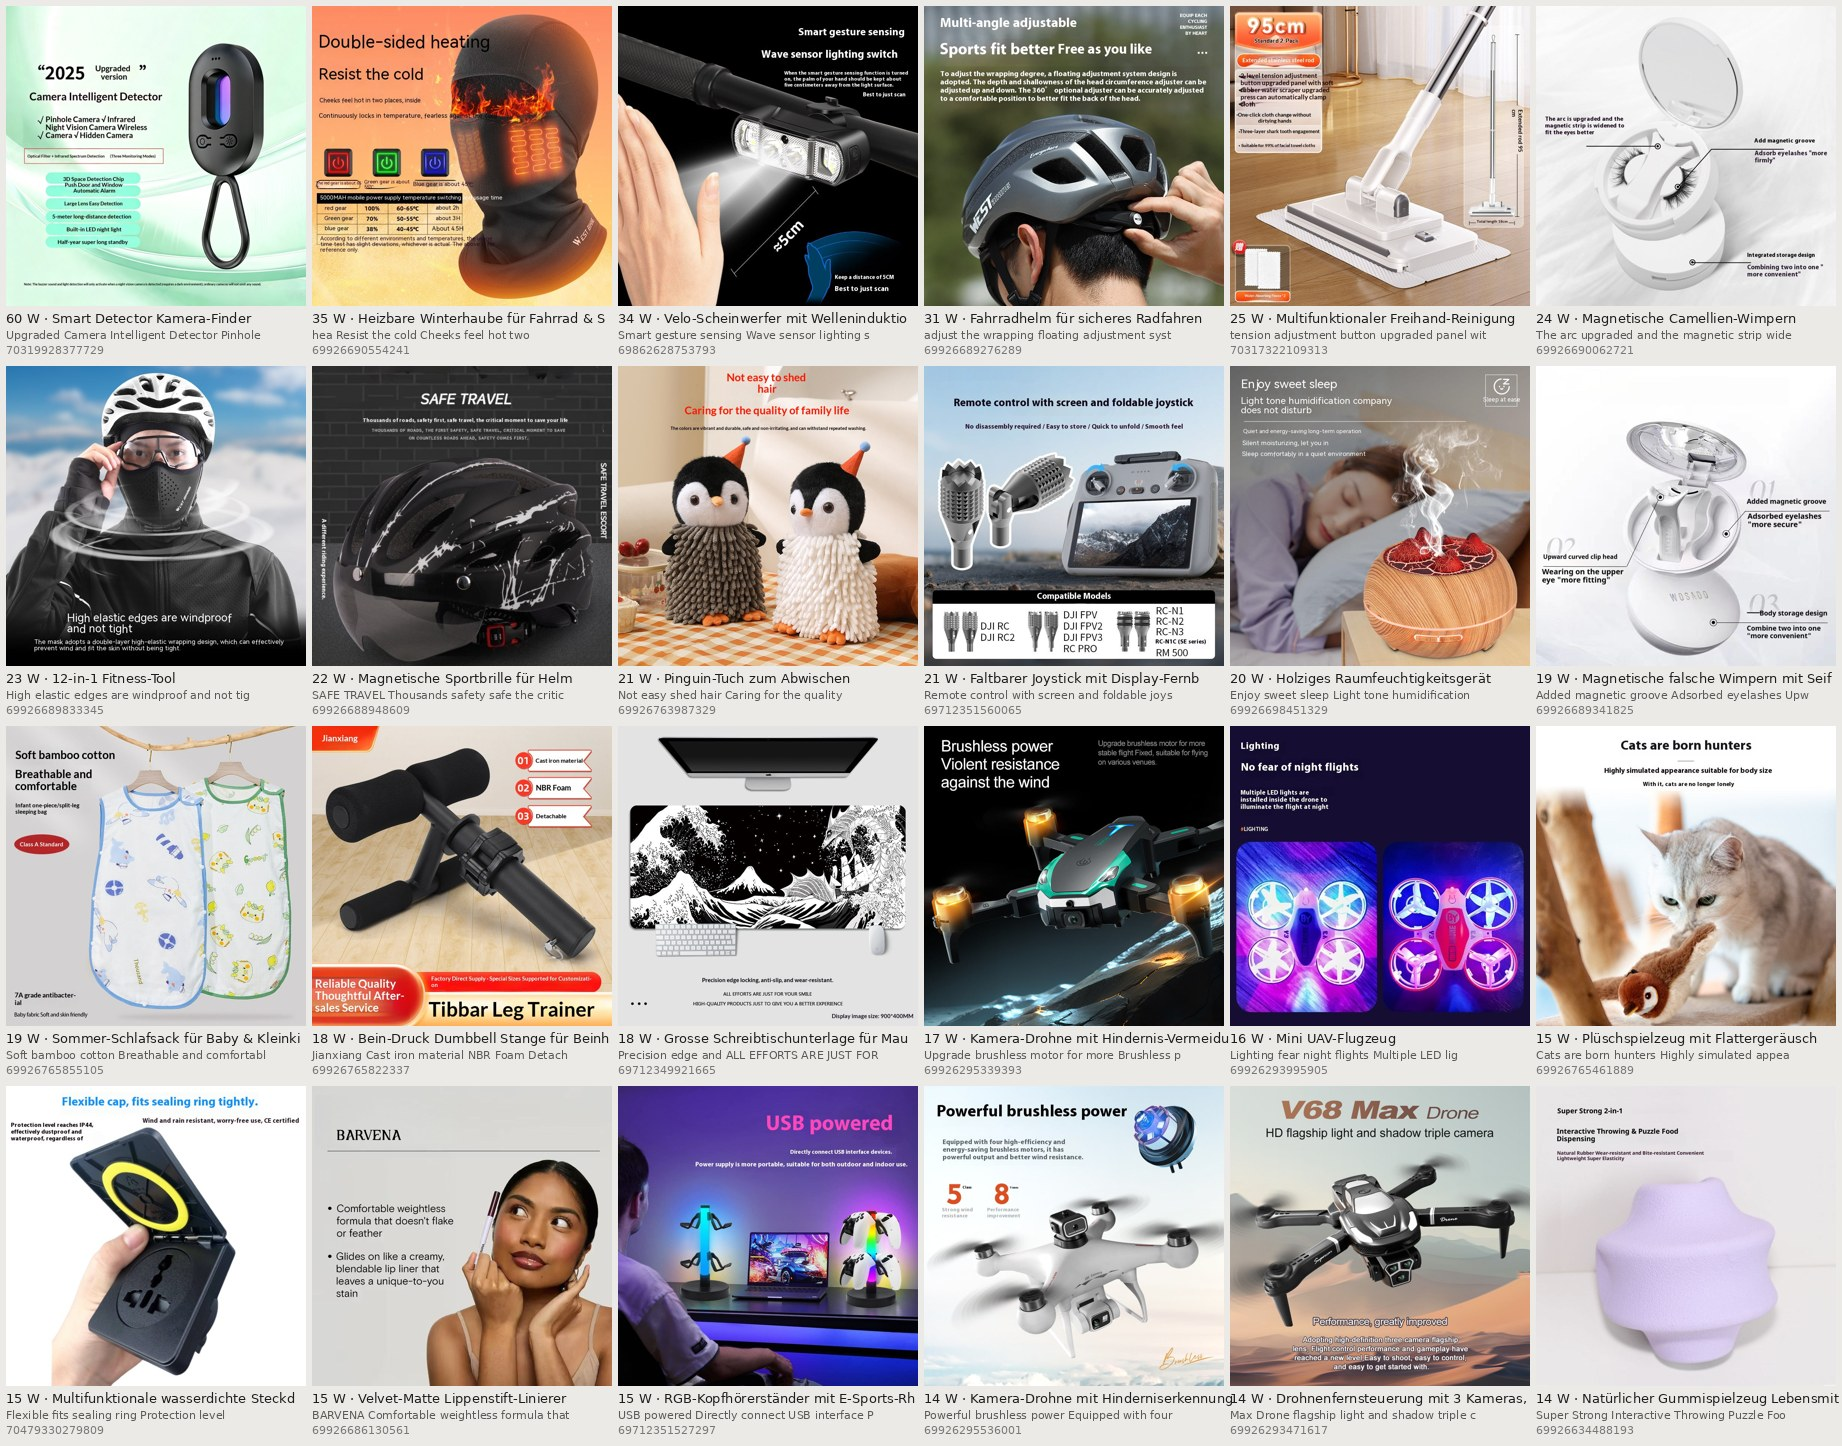
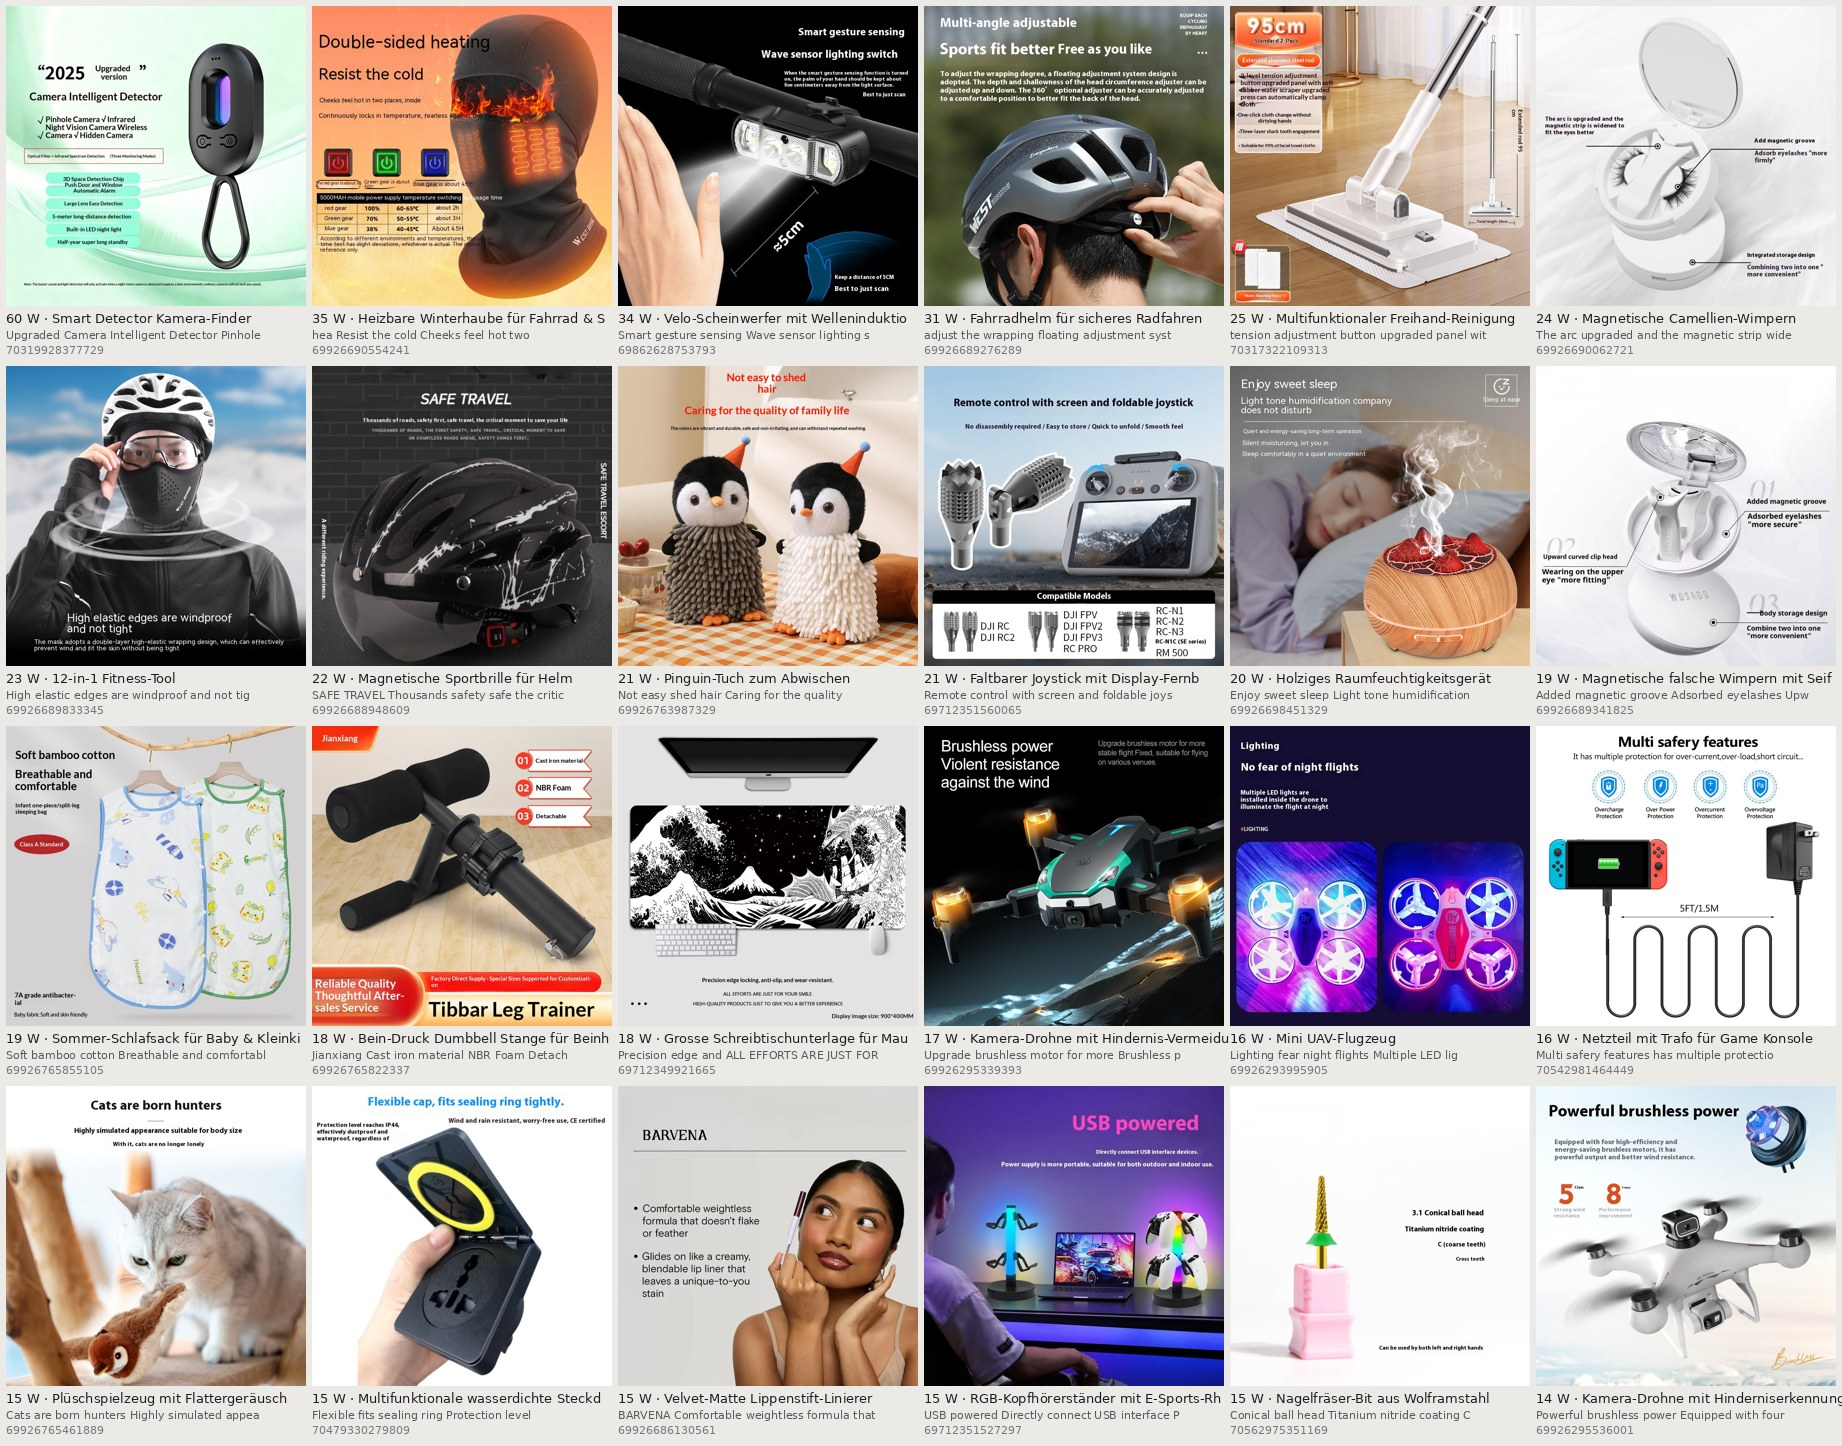
Ledger-Zwischenstand [skip ci]
Claude-Session: https://claude.ai/code/session_01MCYpvsTg9cwVa1SwQZ39f3

Changed region(s): [[0.0, 0.4979, 1.0, 0.9959]]

diff --git a/dropship/BILD-WERBETEXT.md b/dropship/BILD-WERBETEXT.md
@@ -1,9 +1,9 @@
-# Bild-Werbetext in Nicht-Hauptbildern — Stand 2026-09-24T00:20:08Z
+# Bild-Werbetext in Nicht-Hauptbildern — Stand 2026-09-24T00:22:43Z
 
 Quelle: «+N»-Produkte aus `dropship/_cj_bild_backfill.txt` (704 Produkte). Geprüft werden nur Bilder ab Position 2, nie das Hauptbild. Messgerät `bildtext_pruefen.woerter()`, Schwelle ≥ 4 sichere Wörter (Tesseract, Konfidenz ≥ 60, mind. 3 Buchstaben).
 
-- Medien geprüft: **2114** in 581 Produkten
-- Treffer (≥ 4 Wörter): **88** in 83 Produkten
+- Medien geprüft: **2202** in 605 Produkten
+- Treffer (≥ 4 Wörter): **92** in 87 Produkten
 - nicht lesbar (−1, wird beim nächsten Lauf erneut versucht): 0
 - entfernt (`_bild_werbetext_entfernt.txt`): **1**
 
@@ -28,10 +28,12 @@ Quelle: «+N»-Produkte aus `dropship/_cj_bild_backfill.txt` (704 Produkte). Gep
 | Grosse Schreibtischunterlage für Maus und Tastat `15433463103873` | [69712349921665](https://cdn.shopify.com/s/files/1/0943/6856/3585/files/bb422eff-d04a-4d90-bb2a-f6dcad20c47f_trans.jpg) | 18 | Precision edge and ALL EFFORTS ARE JUST FOR | offen |
 | Kamera-Drohne mit Hindernis-Vermeidung `15453744562561` | [69926295339393](https://cdn.shopify.com/s/files/1/0943/6856/3585/files/20c126ef-1fd7-47ba-87da-dfe5ce978467.jpg) | 17 | Upgrade brushless motor for more Brushless power stable | offen |
 | Mini UAV-Flugzeug `15453743907201` | [69926293995905](https://cdn.shopify.com/s/files/1/0943/6856/3585/files/7cbd0b1a-7a56-4fc8-b874-60c3d63e3060_fine.jpg) | 16 | Lighting fear night flights Multiple LED lights are | offen |
+| Netzteil mit Trafo für Game Konsole `15500438602113` | [70542981464449](https://cdn.shopify.com/s/files/1/0943/6856/3585/files/dc58d45a-b0d9-4b36-816f-75de1f08f70b.jpg) | 16 | Multi safery features has multiple protection for Overcharge | offen |
 | Plüschspielzeug mit Flattergeräusch `15453792174465` | [69926765461889](https://cdn.shopify.com/s/files/1/0943/6856/3585/files/4b69f4b4-890b-47aa-89a2-7f70b5e1dd60_trans.jpg) | 15 | Cats are born hunters Highly simulated appearance suitable | offen |
 | Multifunktionale wasserdichte Steckdose für Wohn `15493873860993` | [70479330279809](https://cdn.shopify.com/s/files/1/0943/6856/3585/files/6dd5f853-90c4-4899-9887-bc425efbe683_trans.jpg) | 15 | Flexible fits sealing ring Protection level reaches Wind | offen |
 | Velvet-Matte Lippenstift-Linierer `15453767074177` | [69926686130561](https://cdn.shopify.com/s/files/1/0943/6856/3585/files/c08c8d05-8ba3-41b6-a369-2e2983da3f17.jpg) | 15 | BARVENA Comfortable weightless formula that flake feather Glides | offen |
 | RGB-Kopfhörerständer mit E-Sports-Rhythmusbeleuc `15433464217985` | [69712351527297](https://cdn.shopify.com/s/files/1/0943/6856/3585/files/3b9775a1-fe5c-4ca0-974f-79ccfb2d8ecd_trans.jpg) | 15 | USB powered Directly connect USB interface Power supply | offen |
+| Nagelfräser-Bit aus Wolframstahl `15502471266689` | [70562975351169](https://cdn.shopify.com/s/files/1/0943/6856/3585/files/398099cc-fa5b-442d-8379-7dae455303e5_fine.jpg) | 15 | Conical ball head Titanium nitride coating Cross teeth | offen |
 | Kamera-Drohne mit Hinderniserkennung `15453744628097` | [69926295536001](https://cdn.shopify.com/s/files/1/0943/6856/3585/files/bc914a48-36f7-4072-b53a-203bf305c567.jpg) | 14 | Powerful brushless power Equipped with four and brushless | offen |
 | Drohnenfernsteuerung mit 3 Kameras, langer Akku `15453743743361` | [69926293471617](https://cdn.shopify.com/s/files/1/0943/6856/3585/files/a23f731e-f5bd-4c47-b047-72f2cbe17a1c.jpg) | 14 | Max Drone flagship light and shadow triple camera | offen |
 | Natürlicher Gummispielzeug Lebensmittel-Verteile `15453763502465` | [69926634488193](https://cdn.shopify.com/s/files/1/0943/6856/3585/files/c34aa6a5-2ee1-492c-8bd0-64631702cb5a_trans.jpg) | 14 | Super Strong Interactive Throwing Puzzle Food Dispensing jistant | offen |
@@ -60,6 +62,7 @@ Quelle: «+N»-Produkte aus `dropship/_cj_bild_backfill.txt` (704 Produkte). Gep
 | Elegantes Sommerkleid aus Baumwolle `15453768483201` | [69926688260481](https://cdn.shopify.com/s/files/1/0943/6856/3585/files/a178311c-f643-4dd1-a3cc-9ff55d1b9b63_trans.jpg) | 8 | Where deep bamboo woods and insects chirp Wind | offen |
 | Apricot-Peach Rouge `15453767172481` | [69926686359937](https://cdn.shopify.com/s/files/1/0943/6856/3585/files/60cb8b04-2a3f-4c3b-9e70-eb3272169993_water_trans.jpg) | 8 | Floating Dot Dot Blush Mud Fidoo Floating Pond | offen |
 | Entspannte Sporthose für Herren `15453771858305` | [69926697861505](https://cdn.shopify.com/s/files/1/0943/6856/3585/files/93eceeb9-6b24-4106-a88f-eb8ae0ceadbf_trans.jpg) | 8 | WATER REPELLENT VENTILATE Breathability WEAR RESISTANT fear Resistance | offen |
+| Elektrisches Lichttherapiegerät zur Hautverjüngu `15501006209409` | [70551637721473](https://cdn.shopify.com/s/files/1/0943/6856/3585/files/24dd1c96-9e2a-41ff-962f-d2eae9739428_trans.jpg) | 8 | Beauty and hairdressing set Source Factory Fully qualified | offen |
 | Walnut-Tamper-Aufbewahrung `15453777428865` | [69926712443265](https://cdn.shopify.com/s/files/1/0943/6856/3585/files/bf44810f-69e4-4f5b-89d2-a563f833df37_trans.jpg) | 7 | Coffee solid wood tamping base Suitable for | offen |
 | Baby Seitenliege- und Anti-Roll-Kissen `15453778510209` | [69926716539265](https://cdn.shopify.com/s/files/1/0943/6856/3585/files/638aea21-8dbc-4e77-922a-d77677b291d2_trans.jpg) | 7 | Full and helps soothe sleep and prevents | offen |
 | Gehhilfe für Senioren `15453730439553` | [69926176588161](https://cdn.shopify.com/s/files/1/0943/6856/3585/files/5c6a5c54-439a-4d29-8148-fdf8f6c2aec6_trans.jpg) | 7 | Crotch thickened chafing pad Wearable waist waist | offen |
@@ -73,6 +76,7 @@ Quelle: «+N»-Produkte aus `dropship/_cj_bild_backfill.txt` (704 Produkte). Gep
 | Faltbarer Quadrocopter mit Touch-Steuerung `15453743317377` | [69926292586881](https://cdn.shopify.com/s/files/1/0943/6856/3585/files/452b1a45-07be-42ee-a86d-1f502df24b52_trans.jpg) | 6 | perception and obstacle avoidance forward Pathfinder | offen |
 | Yoga-Matte für Studios und Workouts `15453762650497` | [69926633439617](https://cdn.shopify.com/s/files/1/0943/6856/3585/files/27505a5f-50fb-4818-b7f1-00d8510342f3_trans.jpg) | 6 | pain tion exe cise longer restricted | offen |
 | Integrierte Fahrradhelm-Brille `15453769695617` | [69926689997185](https://cdn.shopify.com/s/files/1/0943/6856/3585/files/57a09141-2e5f-46ec-a9ff-9fae95b110ae.jpg) | 6 | red silver One size fits all | offen |
+| Nixie-Röhrenuhr mit Wecker aus Walnussholz `15501005291905` | [70551630807425](https://cdn.shopify.com/s/files/1/0943/6856/3585/files/640bcf9f-7da6-4b62-8469-9399beef9d90.jpg) | 6 | GERALDINI MUUTO ESIGN THE SOLACE SOAKING | offen |
 | 15453774086529 `15453774086529` | [69926701629825](https://cdn.shopify.com/s/files/1/0943/6856/3585/files/6d4977fb-27ff-4537-928a-345fe4d01923.jpg) | 5 | FOR YOU PROVIDE COMFORT FRAGRANCE | ENTFERNT |
 | Arm-Trainer für Zuhause `15453762584961` | [69926633308545](https://cdn.shopify.com/s/files/1/0943/6856/3585/files/31de1ba0-7de4-4960-8285-f97d43eb8315_trans.jpg) | 5 | Strengthen your body Build muscles | offen |
 | Intelligenter Wasserspender für Katzen `15453765009793` | [69926640255361](https://cdn.shopify.com/s/files/1/0943/6856/3585/files/7886b754-4fb5-4cd4-867d-0c466afc290a_trans.jpg) | 5 | set satisfies all Container Extrajlarge | offen |

diff --git a/dropship/DU-FORM-VERDACHT.md b/dropship/DU-FORM-VERDACHT.md
@@ -147,3 +147,8 @@
 | `verstellbare-kurzhantel-fur-armtraining-yoga-673088` | du deine Armmuskulatur stärken | … vielseitiger Begleiter für das Training zu Hause. Egal, ob du deine Armmuskulatur stärken, gezielt den Oberarmbereich definieren oder deine Yoga-Prax… |
 | `wand-gewurzbox-808448` | du bohren müssen | …x, die sich einfach an der Wand befestigen lässt, ohne dass du bohren müssen. So hast du deine Lieblingsgewürze stets griffbereit und sc… |
 | `wandhalterung-fur-gewurzflaschen-317056` | du stets griffbereit haben | …hrung von Gewürzflaschen und anderen kleinen Behältern, die du stets griffbereit haben möchten. Das schlichte Design in Weiss fügt sich nahtlos in… |
+| `wandregal-mit-ablage-und-haken-636300` | du schnell zur Hand haben | …r Schlüssel, Post und andere kleine Alltagsgegenstände, die du schnell zur Hand haben möchten. So schaffst du Ordnung und behältst den Überblick.… |
+| `wasserdichte-buggy-tasche-mit-abgerundeten-kan-628900` | du schnell zur Hand haben | …ietet ausreichend Platz für die wichtigsten Utensilien, die du schnell zur Hand haben müssen, wie Windeln, Feuchttücher, Snacks oder Spielzeug. D… |
+| `wasserdichter-schonbezug-fur-relaxsessel-1e9b2a` | du kannst entspannte Stunden geniessen | …igen lässt. So bleibt dein Lieblingssessel länger schön und du kannst entspannte Stunden geniessen. Das zeichnet es aus Hauptbestandteil des Stoffes: 95% Poly… |
+| `wimpernkleber-entferner-mit-schallvibration-4a1a2a` | du deine Hände frei haben | …Bedienung ermöglicht eine unkomplizierte Handhabung, sodass du deine Hände frei haben für andere Schritte deiner Beauty-Routine. Geniesse eine sa… |
+| `zirkonia-love-heart-armband-087170` | du lange Freude an diesem besonderen Armband haben | …sorgt für angenehmen Tragekomfort und Langlebigkeit, sodass du lange Freude an diesem besonderen Armband haben werden. Es ist das ideale Geschenk für deine Liebsten oder … |

diff --git a/dropship/BILD-QUEUE-CAPTIONS.md b/dropship/BILD-QUEUE-CAPTIONS.md
@@ -1,4 +1,4 @@
-# Bild-Queue-Captions — ehrliche Laden-Sprache · Stand 2026-09-24 00:21 UTC
+# Bild-Queue-Captions — ehrliche Laden-Sprache · Stand 2026-09-24 00:24 UTC
 
 Werkzeug `automation/bild_queue_captions_ehrlich.py` (täglich im Aufseher). ready: 0 · heute umgebaut: 0
 
